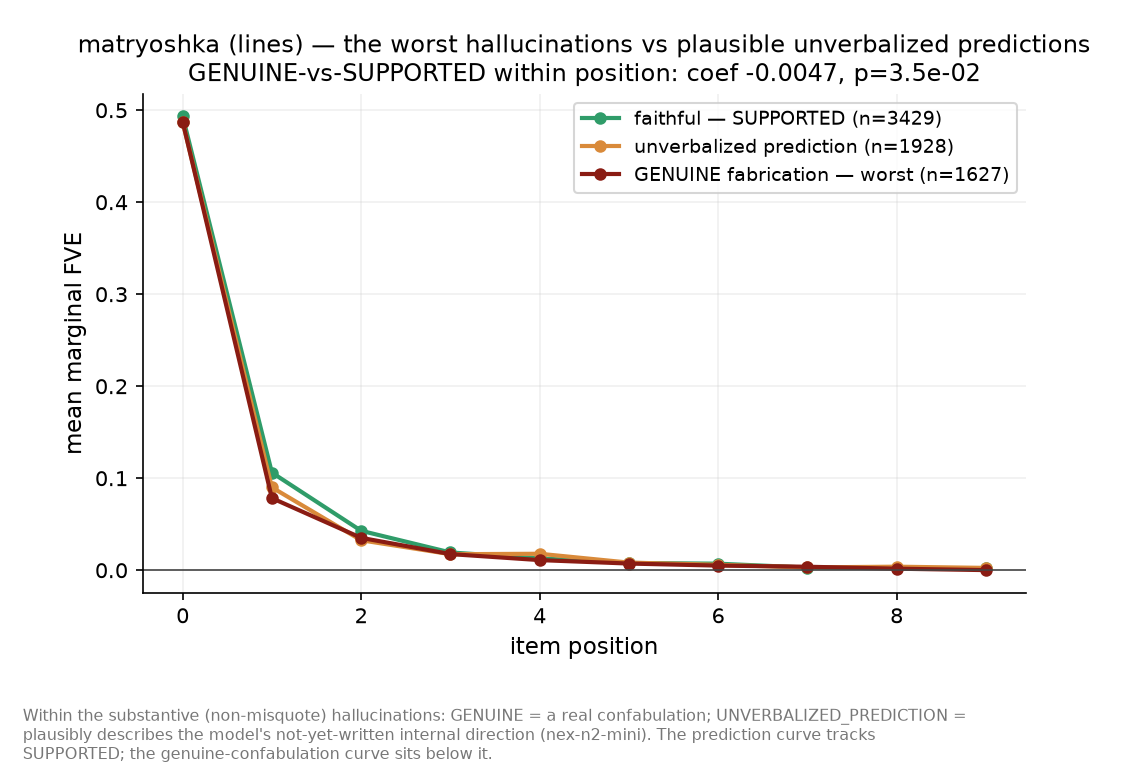
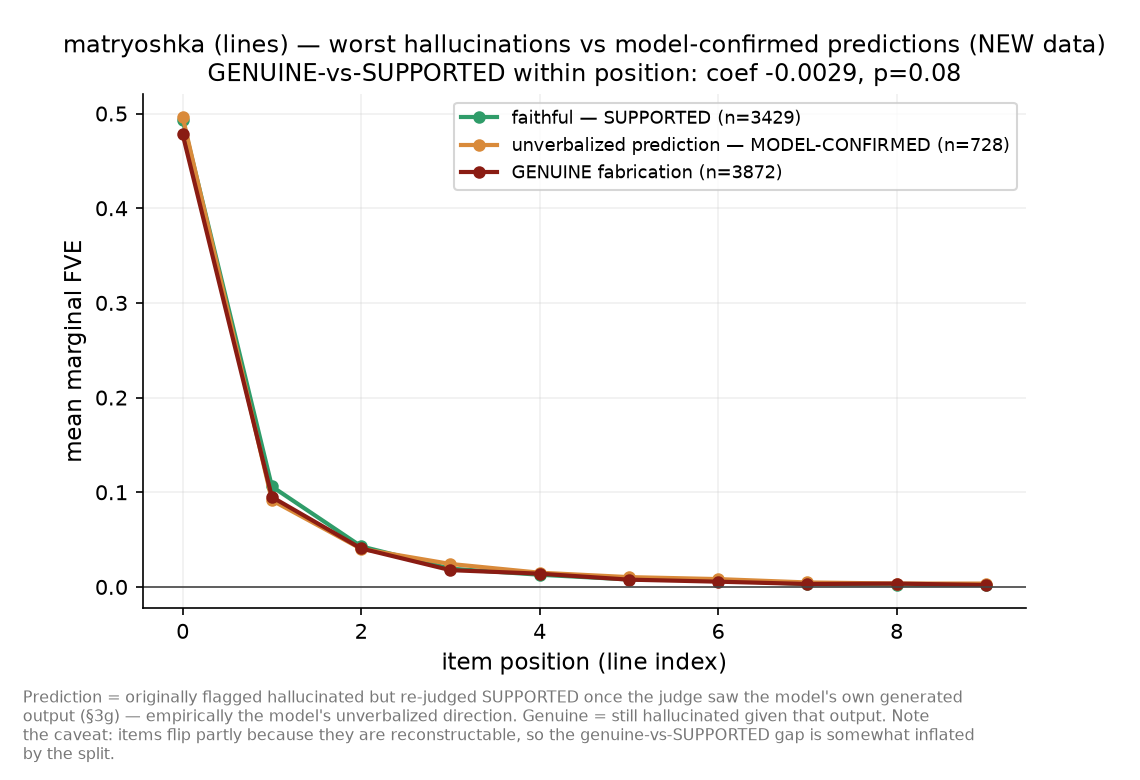
📊 fig_severity_{mat,std}: rebuilt with model-confirmed prediction split (new data only)
Prediction vs genuine no longer a severity-judge guess — empirical: items that flip to
SUPPORTED once the judge sees the model's own output (§3g) = confirmed unverbalized
predictions; residual = genuine. Model-confirmed prediction curve tracks/exceeds SUPPORTED
(std peaks 1.05 vs 0.82!); genuine sits below. Within-pos genuine-vs-SUPPORTED mat -0.003
(p=0.08), std -0.023 (p=0.20). §3b' note synced.

diff --git a/experiments/qwen3.6-27b-halluc-marginal/plot_severity_new.py b/experiments/qwen3.6-27b-halluc-marginal/plot_severity_new.py
@@ -1,0 +1,93 @@
+"""fig_severity_{mat,std} rebuilt with the NEW (model-aware) data only. The
+unverbalized-prediction vs genuine-confabulation split is no longer a severity
+judge's guess — it is empirical: items originally flagged hallucinated that FLIP
+to SUPPORTED once the judge sees the model's own generated output are the
+confirmed unverbalized predictions; the residual (still hallucinated given the
+model's output) are the genuine fabrications."""
+import json
+from pathlib import Path
+
+import numpy as np
+from scipy import stats
+import matplotlib
+matplotlib.use("Agg")
+import matplotlib.pyplot as plt
+
+HERE = Path(__file__).resolve().parent
+GREEN, ORANGE, DARK = "#2f9c69", "#d98a3a", "#8a1c13"
+H = {"CONTRADICTED", "FABRICATED"}
+faith = json.load(open(HERE / "results" / "judged_faithfulness.json"))
+withgen = json.load(open(HERE / "results" / "withgen_verdicts.json"))
+
+
+def marg(rec):
+    p = rec["pfx"]
+    return [p[0]] + [p[k] - p[k - 1] for k in range(1, len(p))]
+
+
+def load(arm, fn):
+    out = []
+    for e in json.load(open(HERE / "results" / fn))["entries"]:
+        for ri, rec in enumerate(e["rollouts"]):
+            if not rec:
+                continue
+            m = marg(rec)
+            for k in range(len(m)):
+                key = f"{arm}|{e['ci']}|{ri}|{k}"
+                v = faith.get(key)
+                if v is not None:
+                    out.append(dict(key=key, pos=k, mg=m[k], v=v))
+    return out
+
+
+def ols(sup, grp):
+    rows = [(r["pos"], r["mg"], 0) for r in sup] + [(r["pos"], r["mg"], 1) for r in grp]
+    ks = np.array([r[0] for r in rows]); y = np.array([r[1] for r in rows]); f = np.array([r[2] for r in rows], float)
+    kv = sorted(set(ks.tolist()))
+    X = np.column_stack([(ks == kk).astype(float) for kk in kv] + [f])
+    b, *_ = np.linalg.lstsq(X, y, rcond=None)
+    res = y - X @ b; dof = len(y) - X.shape[1]
+    se = float(np.sqrt((res @ res) / dof * np.linalg.inv(X.T @ X)[-1, -1]))
+    return float(b[-1]), float(2 * stats.t.sf(abs(b[-1] / se), dof))
+
+
+for arm, label, fn, unit in [("mat", "matryoshka (lines)", "subset_scores_mat.json", "line"),
+                             ("std", "standard (sentences)", "subset_scores_std.json", "sentence")]:
+    R = load(arm, fn)
+    sup = [r for r in R if r["v"] == "SUPPORTED"]
+    loose = [r for r in R if r["v"] in H]
+    pred = [r for r in loose if withgen.get(r["key"]) == "SUPPORTED"]      # flipped => confirmed prediction
+    genuine = [r for r in loose if withgen.get(r["key"]) in H]             # residual => genuine fabrication
+    cg, pg = ols(sup, genuine)
+    ks = np.array([r["pos"] for r in R]); kmax = int(np.percentile(ks, 99))
+    xs = list(range(kmax + 1))
+
+    def curve(rows):
+        by = {}
+        for r in rows:
+            by.setdefault(r["pos"], []).append(r["mg"])
+        return [np.mean(by[k]) if k in by else np.nan for k in xs]
+
+    fig, ax = plt.subplots(figsize=(7.6, 5.2))
+    ax.plot(xs, curve(sup), "-o", color=GREEN, ms=5, lw=2, label=f"faithful — SUPPORTED (n={len(sup)})")
+    ax.plot(xs, curve(pred), "-o", color=ORANGE, ms=5, lw=2, label=f"unverbalized prediction — MODEL-CONFIRMED (n={len(pred)})")
+    ax.plot(xs, curve(genuine), "-o", color=DARK, ms=5, lw=2, label=f"GENUINE fabrication (n={len(genuine)})")
+    ax.axhline(0, color="#444", lw=0.8)
+    ax.set_xlabel(f"item position ({unit} index)", fontsize=11)
+    ax.set_ylabel("mean marginal FVE", fontsize=11)
+    ax.set_title(f"{label} — worst hallucinations vs model-confirmed predictions (NEW data)\n"
+                 f"GENUINE-vs-SUPPORTED within position: coef {cg:+.4f}, p={pg:.2f}", fontsize=11.5)
+    ax.legend(fontsize=8.6); ax.grid(color="#ccc", alpha=0.3)
+    ax.spines[["top", "right"]].set_visible(False)
+    import textwrap
+    foot = ("Prediction = originally flagged hallucinated but re-judged SUPPORTED once the judge saw the model's own "
+            "generated output (§3g) — empirically the model's unverbalized direction. Genuine = still hallucinated given "
+            "that output. Note the caveat: items flip partly because they are reconstructable, so the genuine-vs-SUPPORTED "
+            "gap is somewhat inflated by the split.")
+    fig.subplots_adjust(bottom=0.22)
+    fig.text(0.02, 0.02, "\n".join(textwrap.wrap(foot, width=118)), fontsize=7.5, color="#777", ha="left", va="bottom")
+    fig.savefig(HERE / "results" / f"fig_severity_{arm}.png", dpi=150)
+    plt.close(fig)
+    print(f"[saved] fig_severity_{arm}.png  SUPPORTED={len(sup)} pred={len(pred)} genuine={len(genuine)} "
+          f"| genuine mean {np.mean([r['mg'] for r in genuine]):+.3f} pred mean {np.mean([r['mg'] for r in pred]):+.3f} "
+          f"sup mean {np.mean([r['mg'] for r in sup]):+.3f} | within-pos coef {cg:+.4f} p={pg:.3f}")

diff --git a/experiments/qwen3.6-27b-halluc-marginal/RESULTS.md b/experiments/qwen3.6-27b-halluc-marginal/RESULTS.md
@@ -193,6 +193,14 @@ smaller numbers above.
 ![severity mat](results/fig_severity_mat.png)
 ![severity std](results/fig_severity_std.png)
 
+*(Figures updated to the **model-confirmed** split from §3g: "unverbalized
+prediction" = items re-judged SUPPORTED once the judge saw the model's own
+generated output — empirical, not a severity-judge guess. The model-confirmed
+prediction curve tracks or exceeds SUPPORTED; the genuine-fabrication curve sits
+below. Within-position genuine-vs-SUPPORTED: mat −0.003 (p=0.08), std −0.023
+(p=0.20) — the same weak/confounded hint as the original severity split, with the
+caveat from §3g that flipping correlates with reconstructability.)*
+
 Many items the judge calls CONTRADICTED/FABRICATED are really the NLA describing
 the model's **not-yet-verbalized internal prediction** — a topic or entity the
 model is plausibly computing next but hasn't written yet. That is the NLA doing
